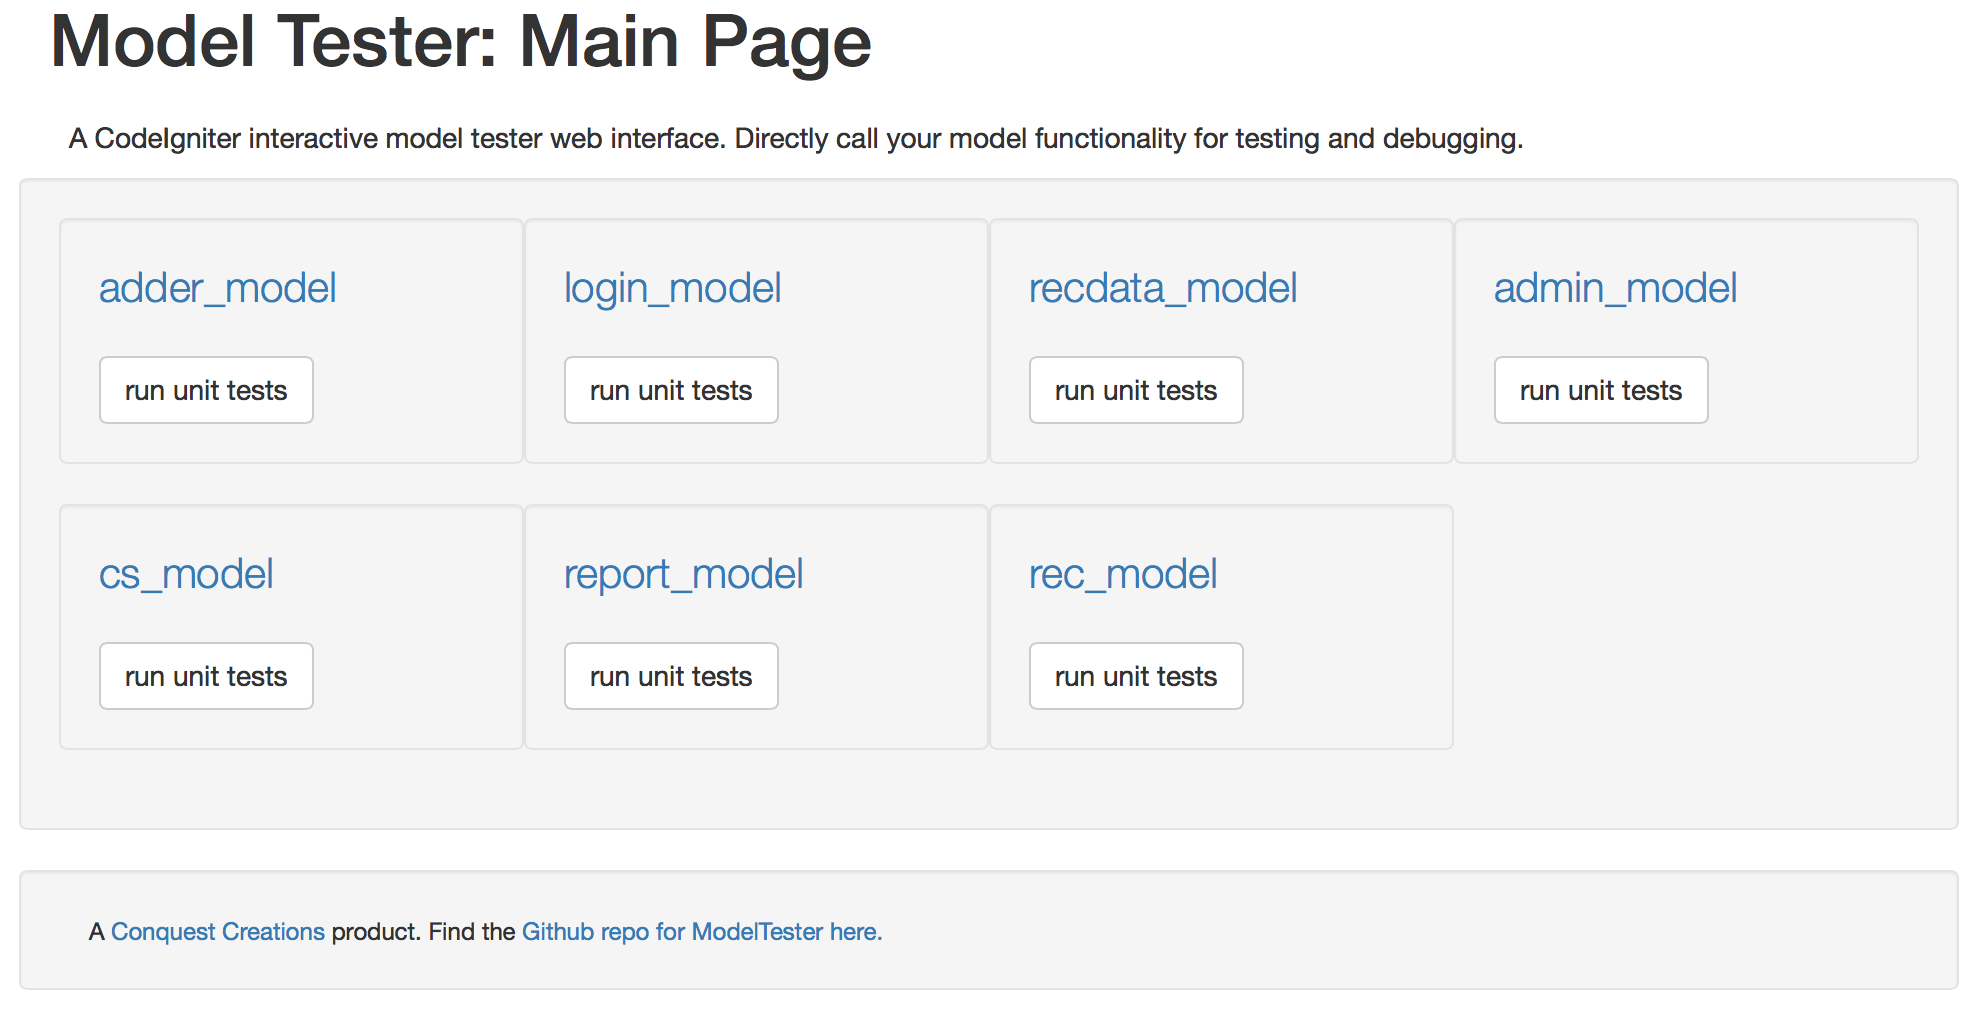
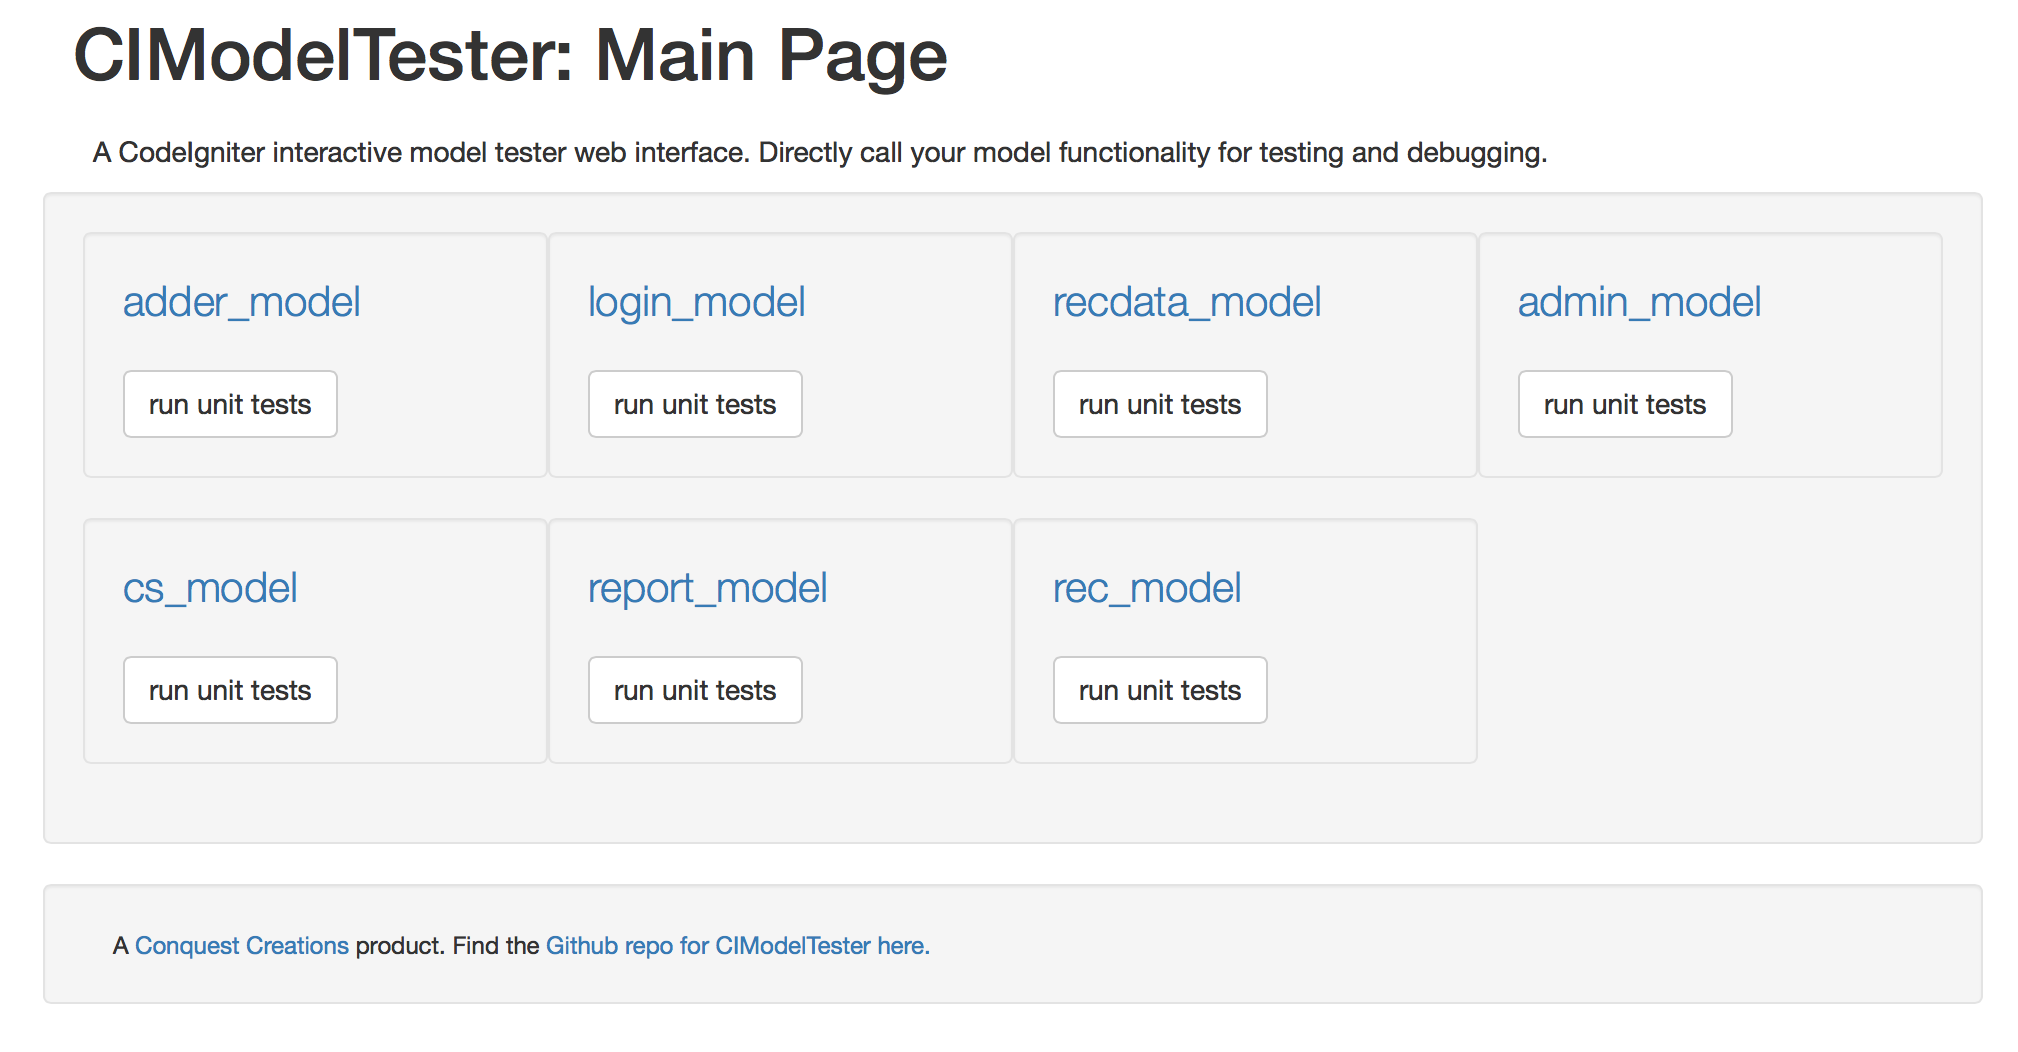
Updated some names.

diff --git a/modeltester.php b/modeltester.php
@@ -1,7 +1,7 @@
 <?php if ( ! defined('BASEPATH')) exit('No direct script access allowed');
 
 
-class ModelTester extends CI_Controller {
+class CIModelTester extends CI_Controller {
 
     public function __construct($_mymodels,$_isvalid = true) {
         parent::__construct();
@@ -40,7 +40,7 @@ class ModelTester extends CI_Controller {
 			}
 			$bod .= "</div>";
 		} else {
-			$bod = "<div>Your ModelTester controller is shutting down because your CodeIgniter project is in a non development state.</div>"; }
+			$bod = "<div>Your CIModelTester controller is shutting down because your CodeIgniter project is in a non development state.</div>"; }
 		$this->pdata["title"] = 'Main Page';
 		$this->pdata["body"] = $bod;
 		echo $this->applyTemplate();
@@ -147,7 +147,7 @@ class ModelTester extends CI_Controller {
 
 
 		} else {
-			$bod = "<div>Your ModelTester controller is shutting down because your CodeIgniter project is in a non development state.</div>"; }
+			$bod = "<div>Your CIModelTester controller is shutting down because your CodeIgniter project is in a non development state.</div>"; }
 
 		$this->pdata["title"] = "Model ".$_model;//'Adder Model';
 		$this->pdata["body"] = $mtext;
@@ -179,7 +179,7 @@ class ModelTester extends CI_Controller {
 			"<head>".
 			"	<meta charset='utf-8'>".
 			"	<meta name='viewport' content='width=device-width, initial-scale=1' > ".
-			"	<title>Model Tester: ".$this->pdata['title']."</title>".
+			"	<title>CIModelTester: ".$this->pdata['title']."</title>".
 			"	<script type='text/javascript' src='//code.jquery.com/jquery-2.1.3.min.js'></script>".
 			"	<link rel='stylesheet' href='//maxcdn.bootstrapcdn.com/bootstrap/3.3.4/css/bootstrap.min.css' />".
 			"	<script type='text/javascript' src='//maxcdn.bootstrapcdn.com/bootstrap/3.3.4/js/bootstrap.min.js'></script>".
@@ -187,9 +187,9 @@ class ModelTester extends CI_Controller {
 			"</head>".
 			"<body>".
 			"<div class='container'>".
-			"	<div class='row'><div class='col-md-12'><h1>Model Tester: ".$this->pdata['title']."</h1></div></div>".
+			"	<div class='row'><div class='col-md-12'><h1>CIModelTester: ".$this->pdata['title']."</h1></div></div>".
 			"	".$this->pdata['body']."".
-			"   <div class='row well'><div class='col-md-12'><small>A <a href='http://conquestcreations.com'>Conquest Creations</a> product. Find the <a href='https://github.com/cwingrav/ModelTester'>Github repo for ModelTester here.</a> </small></div></div>".
+			"   <div class='row well'><div class='col-md-12'><small>A <a href='http://conquestcreations.com'>Conquest Creations</a> product. Find the <a href='https://github.com/cwingrav/CIModelTester'>Github repo for CIModelTester here.</a> </small></div></div>".
 			"</body>".
 			"</html>";
 		return $retval;
